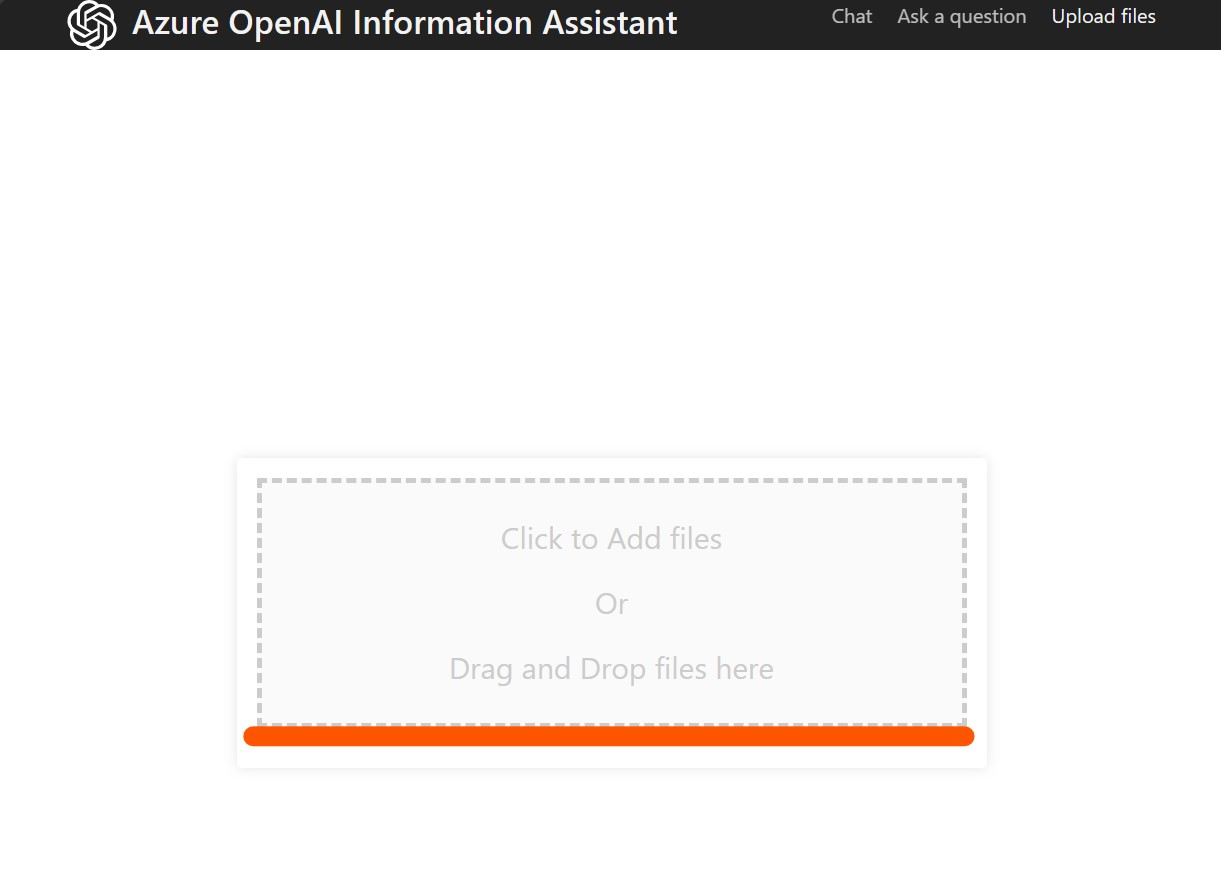
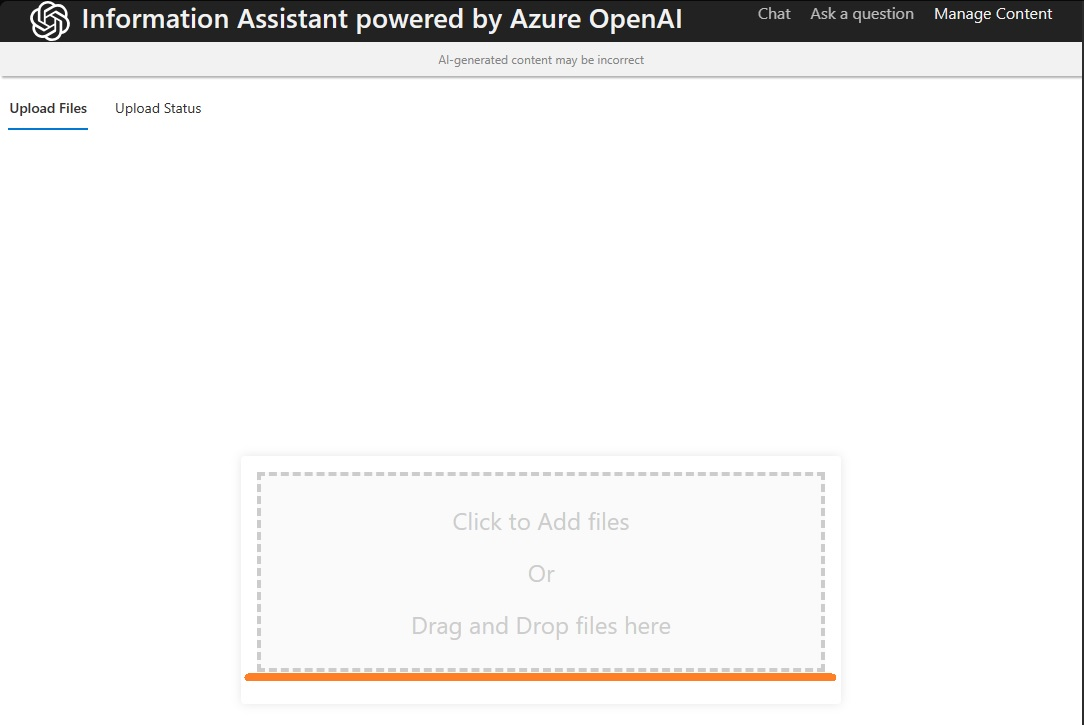
Adding documenation updates to reflect new UX changes

diff --git a/docs/features/features.md b/docs/features/features.md
@@ -2,9 +2,12 @@
 
 * [Document Pre-Processing](#document-pre-processing)
 * [User Experience](#user-experience)
-  * Having a conversation with your Private Data
-  * Ask your data
+  * [Having a conversation with your Private Data](#having-a-conversation-with-your-data)
+  * [Ask your data](#ask-your-data)
   * [Analysis Panel](#analysis-panel)
+  * [Manage Content](#manage-content)
+    * [Uploading files](#uploading-files)
+    * [View upload status](#view-upload-status)
 * [Developer Settings](#developer-settings)
   * [Debugging Functions](#debugging-functions)
   * [Build pipeline for sandbox environment](#build-pipeline-for-sandbox)
@@ -27,26 +30,19 @@ We also log the status of the pre-processing in Azure Cosmos DB. View our [Statu
 
 The end user leverages the web interface as the primary method to engage with the IA Accelerator, and the Azure OpenAI service. The user interface is very similar to that of the OpenAI ChatGPT interface, though it provides different and additional functionality which is outlined below.
 
-### Uploading documents
-You can upload documents in the [supported formats listed above](#document-pre-processing) through the user interface. To do so:
-> 1. Click on the Upload Files link in the top of the interface
-> ![Upload Link](/docs/images/upload-files-link.jpg)
-> 2. Drag files to the user interface, or click to open a browse window
-> ![Upload Link Drag and Drop](/docs/images/upload-files-drag-drop.jpg)
-
 ### Having a conversation with your data
 
 When you engage with IA Accelerator in the "Chat" method, the system maintains a history for your conversation and will be able to understand the context of your questions from one question to the next.
 
 > You may activate the Chat engagement pattern by choosing the "Chat" link at the top of the page
-> ![Chat Link](/docs/images/chat-interface.jpg)
+> ![Chat Link](../images/chat-interface.jpg)
 
 ### Ask your data
 
 When you engage with IA Accelerator in the "Ask a question" method, the system does not maintain a history for your conversation. Each question will be treated with on its own as a new and unique query.
 
 > You may activate the **Ask a question** engagement pattern by choosing the "Chat" link at the top of the page
-> ![Chat Link](/docs/images/ask-a-question-interface.jpg)
+> ![Chat Link](../images/ask-a-question-interface.jpg)
 
 ### Analysis Panel
 
@@ -57,6 +53,35 @@ The Analysis Panel in the UX allows the user to explore three details about the 
 * [Citations](./ux_analysispanel.md#citations)
 
 View the details of the [Analysis Panel](./ux_analysispanel.md) feature or you can click on each section to get more specifics of that detail tab.
+
+### Manage Content
+
+When you engage with IA Accelerator in the "Manage Content" method, the system allows you to add new content and see the status of processing for content previously loaded into the IA Accelerator.
+
+> You may activate the Manage Content engagement pattern by choosing the "Manage Content" link at the top of the page
+> ![Manage Content Link](../images/manage-content-interface.png)
+
+#### Uploading files
+
+You can upload documents in the [supported formats listed above](#document-pre-processing) through the user interface. To do so:
+
+> 1. Click on the Manage Content link in the top of the interface
+> ![Manage Content](../images/manage-content-interface.png)
+> 1. Then click on the "Upload files" tab.
+> ![Upload Link](../images/upload-files-link.png)
+> 1. Drag files to the user interface, or click to open a browse window
+> ![Upload Link Drag and Drop](../images/upload-files-drag-drop.jpg)
+
+#### View upload status
+
+You can view the status up files that have been uploaded to the system through the user interface. To do so:
+
+> 1. Click on the Manage Content link in the top of the interface
+> ![Manage Content](../images/manage-content-interface.png)
+> 1. Then click on the "Upload Status" tab.
+> ![Upload Status Link](../images/view-upload-status-link.png)
+> 1. Select options and **Refresh** the view. The options defaults to *4 hours* Timespan and *All* File Status. 
+> ![Upload Status Options and Refresh Links](../images/view-upload-status-options-and-refresh.png)
 
 ## Developer Settings
 

diff --git a/README.md b/README.md
@@ -22,6 +22,7 @@ Find out more with Microsoft's [Responsible AI resources](https://www.microsoft.
 
 * Chat and Q&A interfaces
 * File Upload and automated chunking and indexing for PDF, HTML, and DOCX
+* Monitoring the status of files uploaded and processed by the accelerator
 * Explores various options to help users evaluate the trustworthiness of responses with citations, tracking of source content, etc.
 * Shows possible approaches for data preparation, prompt construction, and orchestration of interaction between model (ChatGPT) and retriever (Cognitive Search)
 * Settings directly in the UX to tweak the behavior and experiment with options
